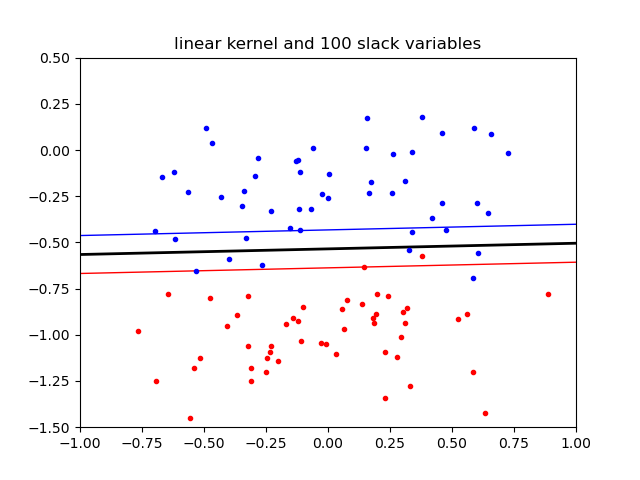
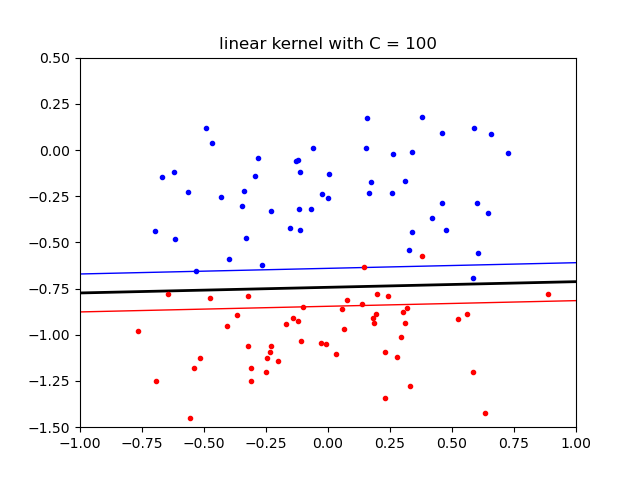
plot and good C bias variance

Changed region(s): [[0.125, 0.4688, 0.9062, 0.6562], [0.2812, 0.0625, 0.75, 0.125], [0.875, 0.4375, 0.9062, 0.4688]]

diff --git a/lab3py/lab3.py b/lab3py/lab3.py
@@ -5,11 +5,16 @@
 
 # ## Jupyter notebooks
 # 
-# In this lab, you can use Jupyter <https://jupyter.org/> to get a nice layout of your code and plots in one document. However, you may also use Python as usual, without Jupyter.
+# In this lab, you can use Jupyter <https://jupyter.org/> to get a nice layout of your code and plots in one
+# document. However, you may also use Python as usual, without Jupyter.
 # 
-# If you have Python and pip, you can install Jupyter with `sudo pip install jupyter`. Otherwise you can follow the instruction on <http://jupyter.readthedocs.org/en/latest/install.html>.
+# If you have Python and pip, you can install Jupyter with `sudo pip install jupyter`. Otherwise you can follow the
+# instruction on <http://jupyter.readthedocs.org/en/latest/install.html>.
 # 
-# And that is everything you need! Now use a terminal to go into the folder with the provided lab files. Then run `jupyter notebook` to start a session in that folder. Click `lab3.ipynb` in the browser window that appeared to start this very notebook. You should click on the cells in order and either press `ctrl+enter` or `run cell` in the toolbar above to evaluate all the expressions.
+# And that is everything you need! Now use a terminal to go into the folder with the provided lab files. Then run
+# `jupyter notebook` to start a session in that folder. Click `lab3.ipynb` in the browser window that appeared to
+# start this very notebook. You should click on the cells in order and either press `ctrl+enter` or `run cell` in the
+# toolbar above to evaluate all the expressions.
 
 # ## Import the libraries
 # 
@@ -33,23 +38,30 @@ import random
 # out: prior - C x 1 vector of class priors
 def computePrior(labels, W=None):
     Npts = labels.shape[0]
-    if W is None:
-        W = np.ones((Npts,1))/Npts
-    else:
-        assert(W.shape[0] == Npts)
     classes = np.unique(labels)
     Nclasses = np.size(classes)
 
-    prior = np.zeros((Nclasses,1))
+    prior = np.zeros((Nclasses, 1))
+    w_sum = 0
+    if W is None:
+        W = np.ones((Npts,1))/Npts
+        for jdx, k in enumerate(classes):
+            idx = np.where(labels == k)[0]
+            prior[jdx] = len(idx) / Npts
+        print("<| ================================================\nThis is the prior", prior)
+        return prior
 
-    # TODO: compute the values of prior for each class!
-    # ==========================
-    for jdx, k in enumerate(classes):
-        idx = np.where(labels==k)[0]
-        prior[jdx] = len(idx) / Npts
-    # ==========================
+    else:
+        assert(W.shape[0] == Npts)
+        # TODO: compute the values of prior for each class!
+        # ==========================
+        for jdx, k in enumerate(classes):
+            prior[k] += W[jdx]
+        w_sum = sum(W)
+        print("<| ================================================\nThis is the prior", prior)
+        return prior / w_sum
+        # ==========================
 
-    return prior
 
 # NOTE: you do not need to handle the W argument for this part!
 # in:      X - N x d matrix of N data points
@@ -62,23 +74,34 @@ def mlParams(X, labels, W=None):
     classes = np.unique(labels)
     Nclasses = np.size(classes)
 
-    if W is None:
+    mu = np.zeros((Nclasses, Ndims))
+    sigma = np.zeros((Nclasses, Ndims, Ndims))
+
+    if W is not None:
         W = np.ones((Npts,1))/float(Npts)
+        # TODO: fill in the code to compute mu and sigma!
+        # ==========================
+        for jdx, k in enumerate(classes):
+            idx = np.where(labels == k)[0]
+            xlc = X[idx, :]
+            nK = len(idx)
 
-    mu = np.zeros((Nclasses,Ndims))
-    sigma = np.zeros((Nclasses,Ndims,Ndims))
-
-    # TODO: fill in the code to compute mu and sigma!
-    # ==========================
-    for jdx, k in enumerate(classes):
-        idx = np.where(labels==k)[0]
-        xlc = X[idx, :]
-        nK = len(idx)
-
-        mu[jdx] += np.sum(xlc, axis=0) / nK
-        sigma[jdx] = np.diag(sum(np.square(xlc - mu[jdx])) / nK)
-    # ==========================
+            mu[jdx] += np.sum(xlc, axis=0) / nK
+            sigma[jdx] = np.diag(sum(np.square(xlc - mu[jdx])) / nK)
+        # ==========================
+    else:
+        W = np.ones((Npts, 1)) / Npts
+        for jdx, k in enumerate(classes):
+            idx = np.where(labels == k)[0]
+            xlc = X[idx, :]
+            ww = W[idx, :]
+            w_sum = sum(ww)
+            mu[jdx] += np.sum(ww*xlc, axis=0) / w_sum
+            sigma[jdx] = np.diag(sum(ww * np.square(xlc - mu[jdx])) / w_sum)
+    print("<| ================================================\nThis is the mu matrix,\n", mu)
+    print("<| ================================================\nThis is the sigma matrix, \n", sigma)
     return mu, sigma
+
 
 # in:      X - N x d matrix of M data points
 #      prior - C x 1 matrix of class priors
@@ -148,6 +171,13 @@ testClassifier(BayesClassifier(), dataset='vowel', split=0.7)
 plotBoundary(BayesClassifier(), dataset='iris',split=0.7)
 
 
+def weight_update(w, alpha, h, c, Z):
+    if h == c:
+        return w * np.exp(-alpha) / Z
+    else:
+        return w * np.exp(alpha) / Z
+
+
 # ## Boosting functions to implement
 # 
 # The lab descriptions state what each function should do.
@@ -161,13 +191,13 @@ plotBoundary(BayesClassifier(), dataset='iris',split=0.7)
 #              alphas - (maximum) length T Python list of vote weights
 def trainBoost(base_classifier, X, labels, T=10):
     # these will come in handy later on
-    Npts,Ndims = np.shape(X)
+    Npts, Ndims = np.shape(X)
 
     classifiers = [] # append new classifiers to this list
     alphas = [] # append the vote weight of the classifiers to this list
 
     # The weights for the first iteration
-    wCur = np.ones((Npts,1))/float(Npts)
+    wCur = np.ones((Npts, 1))/float(Npts)
 
     for i_iter in range(0, T):
         # a new classifier can be trained like this, given the current weights
@@ -178,11 +208,22 @@ def trainBoost(base_classifier, X, labels, T=10):
 
         # TODO: Fill in the rest, construct the alphas etc.
         # ==========================
-        
+        epsilon = 0
+        # ADABOOST (2)
+        correct_votes = np.where(vote == labels)[0]
+        for i in correct_votes:
+            epsilon -= wCur[i]
+
+        # Sum over all the data points, and calculate the weight distribution
+        for idx, x in enumerate(X):
+            epsilon += weight_update(w, alpha, h, c, Z)
+
+        alphas.append(np.log(1 - epsilon) - np.log(epsilon)/2)
         # alphas.append(alpha) # you will need to append the new alpha
         # ==========================
         
     return classifiers, alphas
+
 
 # in:       X - N x d matrix of N data points
 # classifiers - (maximum) length T Python list of trained classifiers as above

diff --git a/SVM/datasets.py b/SVM/datasets.py
@@ -21,6 +21,7 @@ def generate_data(N, arg, verbose=False):
         2: polyrbf separable
         3: not separable
         4: sun, for rbf
+        5: poly bow
     """
     if arg == 0:
         return generate_data_separable(N, verbose)
@@ -50,9 +51,9 @@ def generate_data_separable(N, verbose=True):
             with size N x 1
 
     """
-    classA = np.concatenate((np.random.randn(50, 2) * 0.1 + np.array([0.8, 0.5]),
-                             np.random.randn(50, 2) * 0.1 + np.array([-0.8, 0.5])))
-    classB = np.random.rand(100, 2) * 0.3 + np.array([0.0, -0.5])
+    classA = np.concatenate((np.random.randn(25, 2) * 0.1 + np.array([0.5, -0.4]),
+                             np.random.randn(25, 2) * 0.1 + np.array([0.0, 0.4])))
+    classB = np.random.rand(50, 2) * 0.2 + np.array([-0.2, -0.3])
     # plot_classes(classA, classB, False, False)
     inputs = np.concatenate((classA, classB))
     target = np.concatenate((np.ones(classA.shape[0]),
@@ -114,7 +115,7 @@ def generate_data_sun(N, verbose=True):
     classA = np.concatenate((np.random.randn(20, 2) * 0.2 + np.array([-0.4, -0.3]),
                              np.random.randn(20, 2) * 0.2 + np.array([0.3, 0.0]),
                              np.random.randn(10, 2) * 0.2 + np.array([0.0, 0.1])))
-    classB = np.random.rand(50, 2) * 0.5 + np.array([-0.1, -0.8])
+    classB = np.random.rand(50, 2) * 0.5 + np.array([-0.1, -0.6])
     # plot_classes(classA, classB, False, False)
     inputs = np.concatenate((classA, classB))
     target = np.concatenate((np.ones(classA.shape[0]),
@@ -145,7 +146,7 @@ def generate_data_polyrbf_separable(N, verbose=True):
     classA = np.concatenate((np.random.randn(25, 2) * 0.2 + np.array([-0.3, 0.2]),
                              np.random.randn(25, 2) * 0.2 + np.array([0.3, 0.2])))
     classB = np.random.randn(50, 2) * 0.2 + np.array([0.0, -1.0])
-    plot_classes(classA, classB, False, False)
+    # plot_classes(classA, classB, False, False)
     inputs = np.concatenate((classA, classB))
     target = np.concatenate((np.ones(classA.shape[0]),
                              -np.ones(classB.shape[0])))

diff --git a/SVM/main.py b/SVM/main.py
@@ -6,7 +6,7 @@ from scipy.optimize import minimize
 
 # --- Global Variables ----------------------------------------------------------------------
 N = 100  # Number of training samples
-C = 5  # Upper bound for constraint, used for slack variables good when noisy data
+C = 50  # Upper bound for constraint, used for slack variables good when noisy data
 bounds = [(0, C) for b in range(N)]  # Lower bound for alpha values in the B-array
 start = np.zeros(N)  # Initial guess of the alpha-vector
 
@@ -87,12 +87,12 @@ def indicator(nonzero, x, y, b, kernel_tpe, kernel_arg):
 
 def plot(nonzero, b, ker_type, ker_args, xx, savefig=False):
     fig = plt.Figure()
-    xgrid = np.linspace(-1.0, 1.0)
-    ygrid = np.linspace(-1.5, 0.5)
+    xgrid = np.linspace(-1.2, 1.2)
+    ygrid = np.linspace(-1.2, 0.8)
     grid = np.array([[indicator(nonzero, x, y, b, ker_type, ker_args) for x in xgrid] for y in ygrid])
     plt.contour(xgrid, ygrid, grid, (-1.0, 0.0, 1.0), colors=('red', 'black', 'blue'),
                 linewidths=(1, 2, 1))
-    plt.title("{} kernel with sigma={} and {} slack variables".format(ker_type, ker_args, C))
+    plt.title("{} kernel with sigma = {}, and C = {}".format(ker_type, ker_args, C))
     if savefig:
         #s = ""
         #if xx < 10:
@@ -126,12 +126,12 @@ def perform_task(ker_tpe, ker_arg, dataset_arg, xx=0.0, verbose=False):
 
 def main():
     # rbf_tpe, rbf_arg, dataset_arg, verbose
-    #dic = [float(x/100) for x in range(10, 100)]
+    #dic = [float(x/10) for x in range(1, 20)]
     #for i in dic:
-    #    xx = i*100
+    #    xx = i*10
     #    print("<| Time to go, turn around {}".format(xx))
     #    perform_task('rbf', i, 4, i, False)
-    perform_task('rbf', 0.5, 4, 0.5, False)
+    perform_task('rbf', 1.2, 4, 1.2, False)
 
 
 if __name__ == "__main__":
